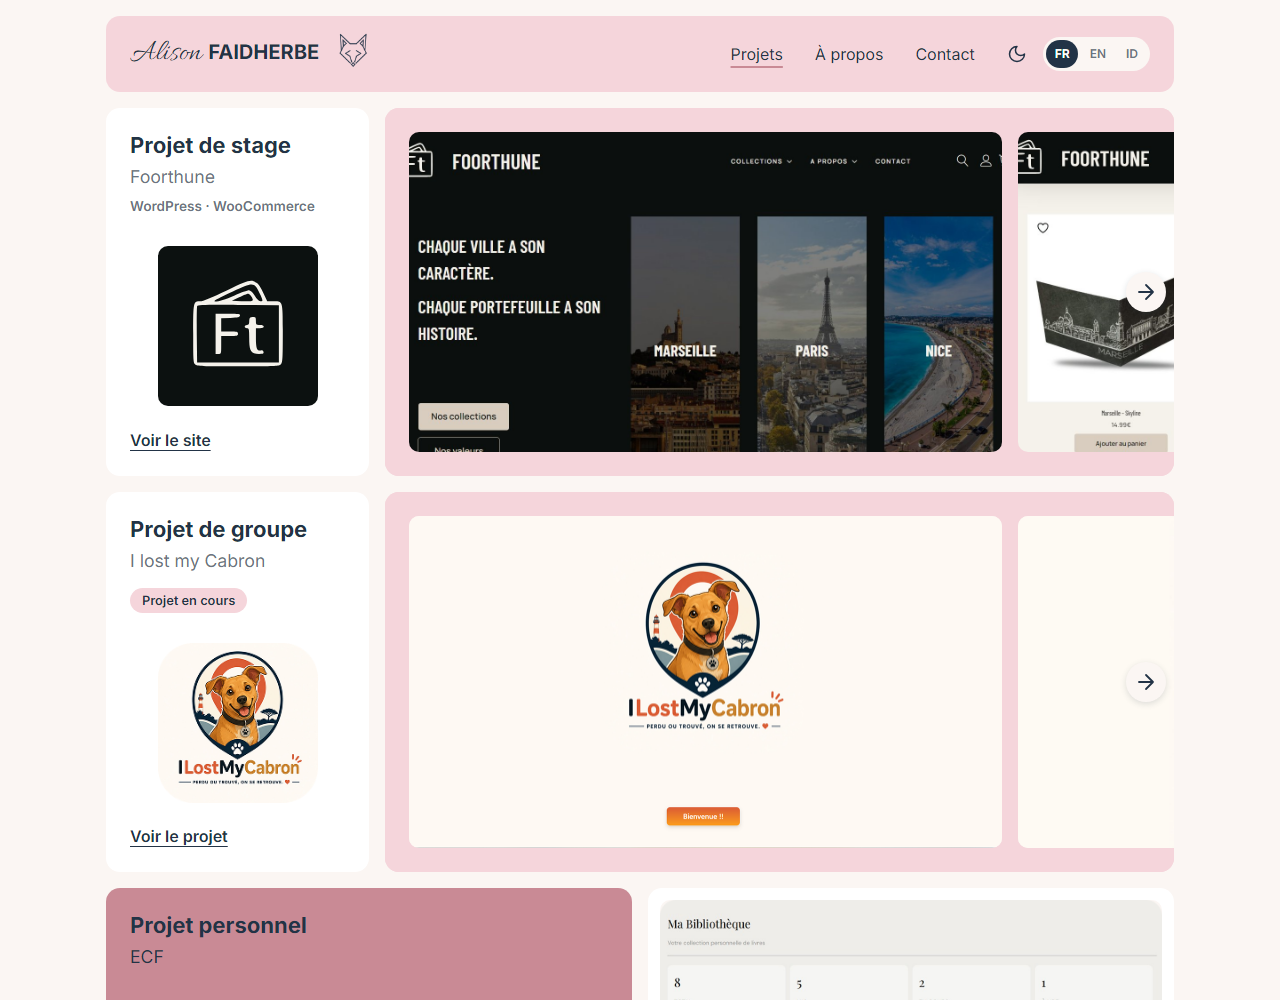
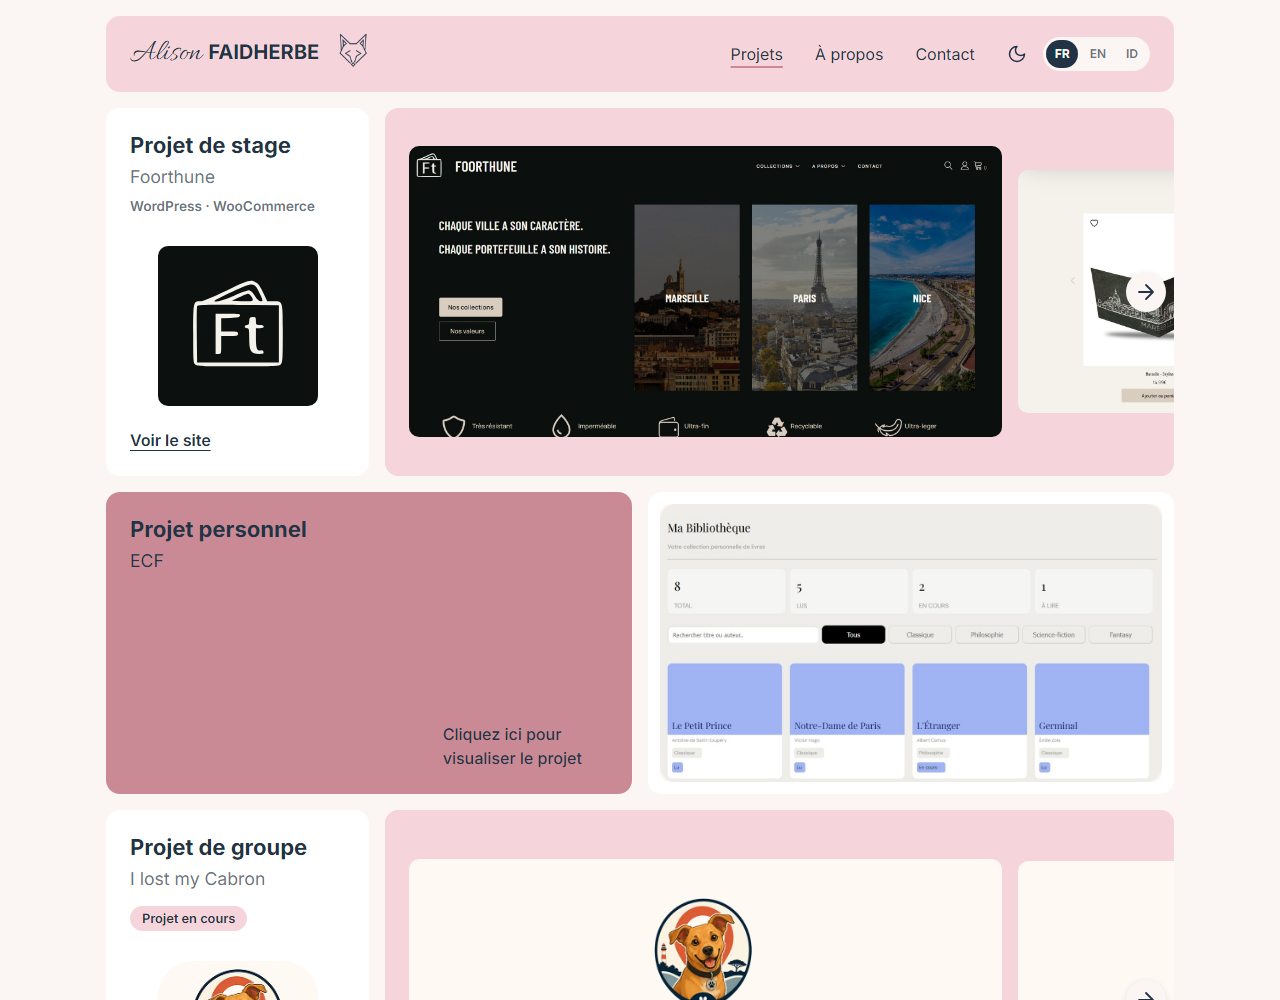
Flèches sans fond au survol, projets alternés, captures Foorthune entières
- La flèche « Mes projets » de la page à propos ne prend plus de fond rose
  au survol ; la carte « Contactez-moi » non plus : seule l'animation reste.
- Page Projets : carrousels et projets statiques alternent.
- Les captures des galeries gardent leurs proportions (plus coupées sur
  les côtés) ; nouvelles captures Foorthune fournies par Alison.

diff --git a/projets.html b/projets.html
@@ -9,11 +9,11 @@
   <link rel="preconnect" href="https://fonts.googleapis.com">
   <link rel="preconnect" href="https://fonts.gstatic.com" crossorigin>
   <link rel="stylesheet" href="https://fonts.googleapis.com/css2?family=Allura&family=Inter:wght@400;500;600;700;800&display=swap">
-  <link rel="stylesheet" href="css/style.css?v=2026-09-27">
+  <link rel="stylesheet" href="css/style.css?v=2026-09-29">
   <link rel="icon" type="image/png" href="assets/images/favicon.png">
-  <script src="js/theme.js?v=2026-09-27"></script>
-  <script src="js/traductions.js?v=2026-09-27" defer></script>
-  <script src="js/main.js?v=2026-09-27" defer></script>
+  <script src="js/theme.js?v=2026-09-29"></script>
+  <script src="js/traductions.js?v=2026-09-29" defer></script>
+  <script src="js/main.js?v=2026-09-29" defer></script>
 </head>
 <body>
 
@@ -58,8 +58,8 @@
         <ul class="carte carte--rose projet__galerie" aria-label="Captures d'écran de Foorthune" data-i18n-attr="aria-label:foorthune.galerie">
           <li><img src="assets/images/foorthune-1.jpg" alt="Page d'accueil de Foorthune avec les collections Marseille, Paris et Nice" data-i18n-attr="alt:foorthune.accueil"></li>
           <li><img src="assets/images/foorthune-2.jpg" alt="Portefeuilles de la collection Marseille en vente sur Foorthune" data-i18n-attr="alt:foorthune.produits"></li>
-          <li><img src="assets/images/foorthune-3.jpg" alt="Page de la collection Marseille sur Foorthune" data-i18n-attr="alt:foorthune.collection"></li>
-          <li><img src="assets/images/foorthune-4.jpg" alt="Page Notre histoire de Foorthune" data-i18n-attr="alt:foorthune.histoire"></li>
+          <li><img src="assets/images/foorthune-3.jpg" alt="Page Le Tyvek de Foorthune, qui présente la matière des portefeuilles" data-i18n-attr="alt:foorthune.tyvek"></li>
+          <li><img src="assets/images/foorthune-4.jpg" alt="Page de la collection Marseille sur Foorthune" data-i18n-attr="alt:foorthune.collection"></li>
         </ul>
         <button class="carrousel__fleche carrousel__fleche--precedent" type="button" disabled aria-label="Capture précédente" data-i18n-attr="aria-label:galerie.precedent">
           <svg class="icone" viewBox="0 0 24 24" aria-hidden="true"><path d="M19 12H5M12 19l-7-7 7-7"/></svg>
@@ -68,6 +68,17 @@
           <svg class="icone" viewBox="0 0 24 24" aria-hidden="true"><path d="M5 12h14M12 5l7 7-7 7"/></svg>
         </button>
       </div>
+    </article>
+
+    <article class="projet projet--inverse" id="ecf">
+      <header class="carte carte--vieux-rose projet__infos">
+        <p class="projet__type" data-i18n="projet.perso">Projet personnel</p>
+        <h2>ECF</h2>
+        <a class="projet__lien" href="https://github.com/Alliiissonnee/ECF" target="_blank" rel="noopener" data-i18n="projet.visualiser">Cliquez ici pour visualiser le projet</a>
+      </header>
+      <figure class="carte projet__apercu">
+        <img src="assets/images/bibliotheque.png" alt="Capture d'écran de l'ECF : application Ma Bibliothèque" data-i18n-attr="alt:ecf.capture">
+      </figure>
     </article>
 
     <article class="projet" id="cabron">
@@ -93,14 +104,14 @@
       </div>
     </article>
 
-    <article class="projet projet--inverse" id="ecf">
+    <article class="projet projet--inverse" id="floppy-perroquet">
       <header class="carte carte--vieux-rose projet__infos">
         <p class="projet__type" data-i18n="projet.perso">Projet personnel</p>
-        <h2>ECF</h2>
-        <a class="projet__lien" href="https://github.com/Alliiissonnee/ECF" target="_blank" rel="noopener" data-i18n="projet.visualiser">Cliquez ici pour visualiser le projet</a>
+        <h2>Floppy Perroquet</h2>
+        <a class="projet__lien" href="https://alliiissonnee.github.io/Floppy-Perroquet-/" target="_blank" rel="noopener" data-i18n="projet.jouer">Cliquez ici pour jouer</a>
       </header>
-      <figure class="carte projet__apercu">
-        <img src="assets/images/bibliotheque.png" alt="Capture d'écran de l'ECF : application Ma Bibliothèque" data-i18n-attr="alt:ecf.capture">
+      <figure class="carte projet__apercu projet__apercu--portrait">
+        <img src="assets/images/floppy-1.png" alt="Écran d'accueil du jeu Floppy Perroquet" data-i18n-attr="alt:floppy.capture">
       </figure>
     </article>
 
@@ -124,17 +135,6 @@
           <svg class="icone" viewBox="0 0 24 24" aria-hidden="true"><path d="M5 12h14M12 5l7 7-7 7"/></svg>
         </button>
       </div>
-    </article>
-
-    <article class="projet projet--inverse" id="floppy-perroquet">
-      <header class="carte carte--vieux-rose projet__infos">
-        <p class="projet__type" data-i18n="projet.perso">Projet personnel</p>
-        <h2>Floppy Perroquet</h2>
-        <a class="projet__lien" href="https://alliiissonnee.github.io/Floppy-Perroquet-/" target="_blank" rel="noopener" data-i18n="projet.jouer">Cliquez ici pour jouer</a>
-      </header>
-      <figure class="carte projet__apercu projet__apercu--portrait">
-        <img src="assets/images/floppy-1.png" alt="Écran d'accueil du jeu Floppy Perroquet" data-i18n-attr="alt:floppy.capture">
-      </figure>
     </article>
 
   </main>

diff --git a/js/traductions.js b/js/traductions.js
@@ -48,7 +48,7 @@ const traductions = {
     "foorthune.accueil": "Foorthune home page with the Marseille, Paris and Nice collections",
     "foorthune.produits": "Wallets from the Marseille collection for sale on Foorthune",
     "foorthune.collection": "Foorthune Marseille collection page",
-    "foorthune.histoire": "Foorthune Our story page",
+    "foorthune.tyvek": "Foorthune page about Tyvek, the material of the wallets",
     "projet.visualiser": "Click here to view the project",
     "cabron.logo": "I lost my Cabron logo",
     "cabron.galerie": "Screenshots of I lost my Cabron",
@@ -104,7 +104,7 @@ const traductions = {
     "histoire.p2": "Now training as a fullstack web developer, I bring these same qualities to building websites and applications.",
     "histoire.p3": "I'm open to new opportunities.",
     "cv": "Download my CV",
-    "cv.lien": "assets/CV_Alison_Faidherbe_web_en.pdf?v=2026-09-27",
+    "cv.lien": "assets/CV_Alison_Faidherbe_web_en.pdf?v=2026-09-29",
     "interets.titre": "Interests",
     "interets.course": "Running",
     "interets.velo": "Road cycling",
@@ -151,7 +151,7 @@ const traductions = {
     "foorthune.accueil": "Halaman beranda Foorthune dengan koleksi Marseille, Paris, dan Nice",
     "foorthune.produits": "Dompet koleksi Marseille yang dijual di Foorthune",
     "foorthune.collection": "Halaman koleksi Marseille di Foorthune",
-    "foorthune.histoire": "Halaman Kisah Kami di Foorthune",
+    "foorthune.tyvek": "Halaman Tyvek di Foorthune yang menjelaskan bahan dompetnya",
     "projet.visualiser": "Klik di sini untuk melihat proyek",
     "cabron.logo": "Logo I lost my Cabron",
     "cabron.galerie": "Tangkapan layar I lost my Cabron",
@@ -207,7 +207,7 @@ const traductions = {
     "histoire.p2": "Kini sedang menempuh pelatihan pengembang web fullstack, saya menerapkan kualitas yang sama dalam membangun situs dan aplikasi.",
     "histoire.p3": "Saya terbuka untuk peluang baru.",
     "cv": "Unduh CV saya",
-    "cv.lien": "assets/CV_Alison_Faidherbe_web_id.pdf?v=2026-09-27",
+    "cv.lien": "assets/CV_Alison_Faidherbe_web_id.pdf?v=2026-09-29",
     "interets.titre": "Minat",
     "interets.course": "Lari",
     "interets.velo": "Bersepeda jalan raya",

diff --git a/a-propos.html b/a-propos.html
@@ -9,11 +9,11 @@
   <link rel="preconnect" href="https://fonts.googleapis.com">
   <link rel="preconnect" href="https://fonts.gstatic.com" crossorigin>
   <link rel="stylesheet" href="https://fonts.googleapis.com/css2?family=Allura&family=Inter:wght@400;500;600;700;800&display=swap">
-  <link rel="stylesheet" href="css/style.css?v=2026-09-27">
+  <link rel="stylesheet" href="css/style.css?v=2026-09-29">
   <link rel="icon" type="image/png" href="assets/images/favicon.png">
-  <script src="js/theme.js?v=2026-09-27"></script>
-  <script src="js/traductions.js?v=2026-09-27" defer></script>
-  <script src="js/main.js?v=2026-09-27" defer></script>
+  <script src="js/theme.js?v=2026-09-29"></script>
+  <script src="js/traductions.js?v=2026-09-29" defer></script>
+  <script src="js/main.js?v=2026-09-29" defer></script>
 </head>
 <body>
 
@@ -56,7 +56,7 @@
       <p data-i18n="histoire.p1">Dresser un chien et écrire du code, ça demande la même chose : de la patience, de la méthode et beaucoup de persévérance. J'en ai fait l'expérience pendant 11 ans comme maître de chien dans l'Armée de Terre. J'ai également appris à encadrer une équipe.</p>
       <p data-i18n="histoire.p2">Aujourd'hui en formation de développeur web fullstack, je mets ces mêmes qualités au service de sites et d'applications.</p>
       <p data-i18n="histoire.p3">Je suis à l'écoute de nouvelles opportunités.</p>
-      <a class="bouton" href="assets/CV_Alison_Faidherbe_web.pdf?v=2026-09-27" download data-i18n="cv" data-i18n-attr="href:cv.lien">Télécharger mon CV</a>
+      <a class="bouton" href="assets/CV_Alison_Faidherbe_web.pdf?v=2026-09-29" download data-i18n="cv" data-i18n-attr="href:cv.lien">Télécharger mon CV</a>
     </section>
 
     <section class="carte carte--vieux-rose profil" aria-label="Profil" data-i18n-attr="aria-label:profil.label">

diff --git a/css/style.css b/css/style.css
@@ -442,7 +442,8 @@ a {
   grid-template-columns: 1fr;
 }
 
-.projets-apercu--compact a:hover {
+/* Seulement les noms de projets : la flèche garde juste sa petite animation */
+.projets-apercu--compact .liste-projets a:hover {
   background: var(--rose-clair);
 }
 
@@ -501,10 +502,6 @@ a {
   justify-content: space-between;
   gap: 2rem;
   transition: background 0.2s;
-}
-
-.appel-contact:hover {
-  background: var(--rose-survol);
 }
 
 .appel-contact .icone {
@@ -639,6 +636,7 @@ a {
 /* Galerie qui défile horizontalement */
 .projet__galerie {
   display: flex;
+  align-items: center;
   gap: var(--espace);
   overflow-x: auto;
   scroll-snap-type: x mandatory;
@@ -650,12 +648,11 @@ a {
   scroll-snap-align: start;
 }
 
+/* Les captures gardent leurs proportions : jamais coupées sur les côtés */
 .projet__galerie img,
 .projet__apercu img {
   width: 100%;
-  height: 100%;
-  aspect-ratio: 2 / 1;
-  object-fit: cover;
+  height: auto;
   border-radius: 10px;
   background: var(--creme);
 }

diff --git a/contact.html b/contact.html
@@ -9,11 +9,11 @@
   <link rel="preconnect" href="https://fonts.googleapis.com">
   <link rel="preconnect" href="https://fonts.gstatic.com" crossorigin>
   <link rel="stylesheet" href="https://fonts.googleapis.com/css2?family=Allura&family=Inter:wght@400;500;600;700;800&display=swap">
-  <link rel="stylesheet" href="css/style.css?v=2026-09-27">
+  <link rel="stylesheet" href="css/style.css?v=2026-09-29">
   <link rel="icon" type="image/png" href="assets/images/favicon.png">
-  <script src="js/theme.js?v=2026-09-27"></script>
-  <script src="js/traductions.js?v=2026-09-27" defer></script>
-  <script src="js/main.js?v=2026-09-27" defer></script>
+  <script src="js/theme.js?v=2026-09-29"></script>
+  <script src="js/traductions.js?v=2026-09-29" defer></script>
+  <script src="js/main.js?v=2026-09-29" defer></script>
 </head>
 <body>
 

diff --git a/index.html b/index.html
@@ -9,11 +9,11 @@
   <link rel="preconnect" href="https://fonts.googleapis.com">
   <link rel="preconnect" href="https://fonts.gstatic.com" crossorigin>
   <link rel="stylesheet" href="https://fonts.googleapis.com/css2?family=Allura&family=Inter:wght@400;500;600;700;800&display=swap">
-  <link rel="stylesheet" href="css/style.css?v=2026-09-27">
+  <link rel="stylesheet" href="css/style.css?v=2026-09-29">
   <link rel="icon" type="image/png" href="assets/images/favicon.png">
-  <script src="js/theme.js?v=2026-09-27"></script>
-  <script src="js/traductions.js?v=2026-09-27" defer></script>
-  <script src="js/main.js?v=2026-09-27" defer></script>
+  <script src="js/theme.js?v=2026-09-29"></script>
+  <script src="js/traductions.js?v=2026-09-29" defer></script>
+  <script src="js/main.js?v=2026-09-29" defer></script>
 </head>
 <body>
 
